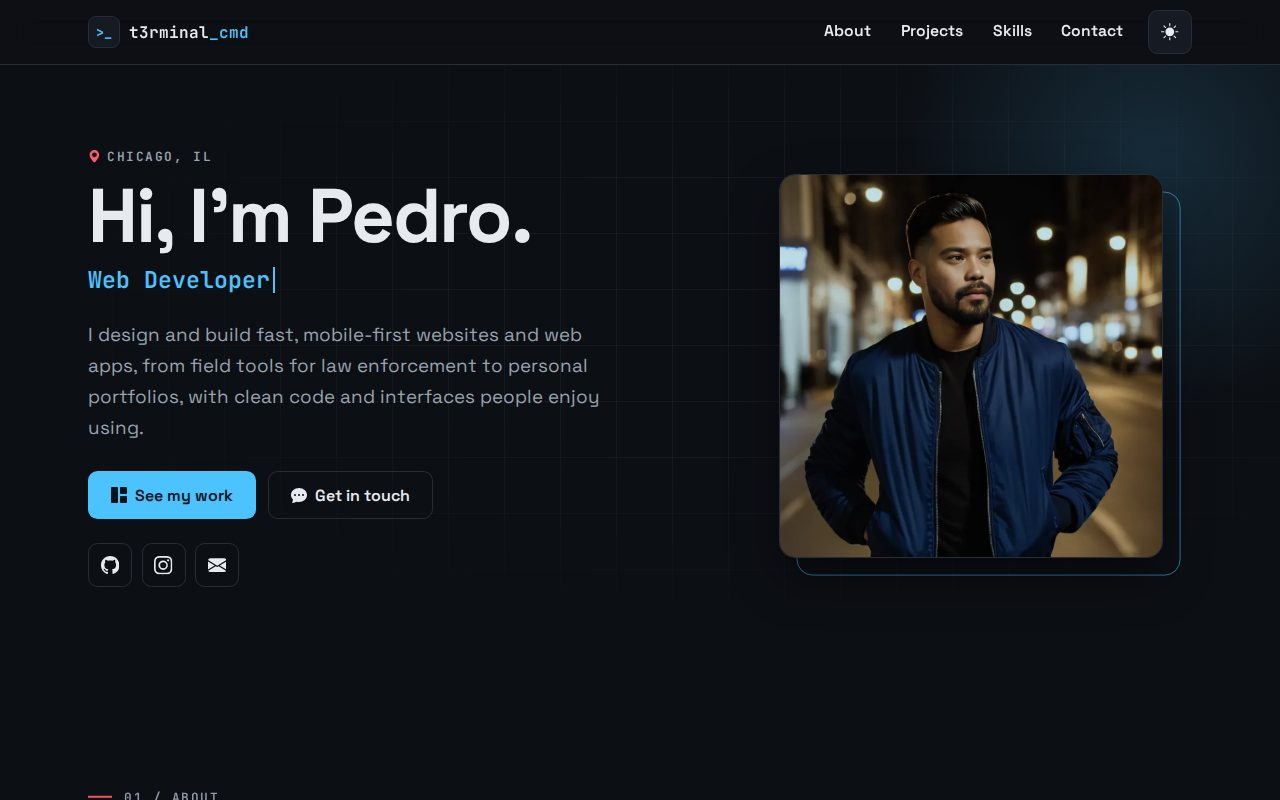
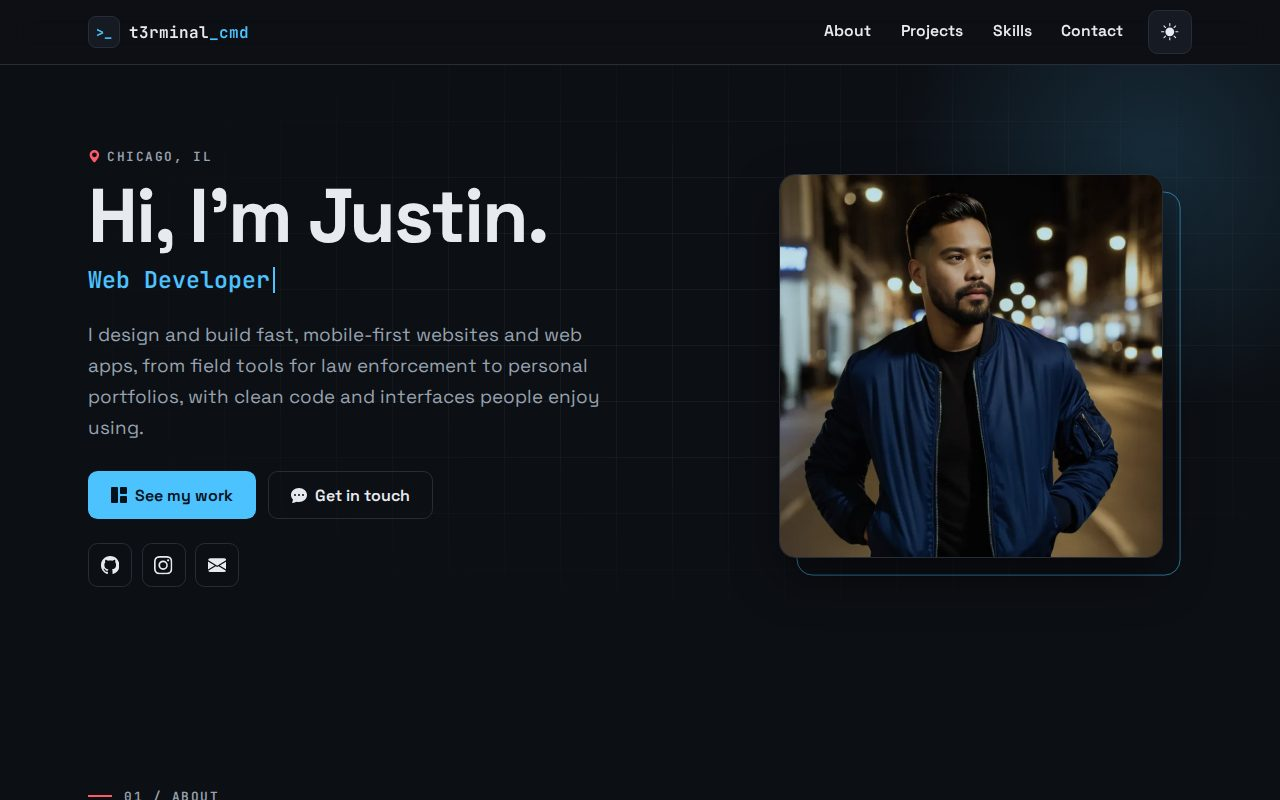
Change the name on the portfolio to Justin
Update the page title, description, social preview title, hero heading,
terminal prompt and README. The hero photo's alt text is now a neutral
description until the photo itself is replaced.

Claude-Session: https://claude.ai/code/session_01WczYLbDvrap2tUhs166EUz

Changed region(s): [[0.2188, 0.2188, 0.4375, 0.3125]]

diff --git a/index.html b/index.html
@@ -4,11 +4,11 @@
 <head>
   <meta charset="UTF-8">
   <meta name="viewport" content="width=device-width, initial-scale=1">
-  <title>Pedro | Web Developer &amp; Designer</title>
-  <meta name="description" content="Pedro, a Chicago web developer and designer building fast, mobile-first websites and web apps.">
+  <title>Justin | Web Developer &amp; Designer</title>
+  <meta name="description" content="Justin, a Chicago web developer and designer building fast, mobile-first websites and web apps.">
   <meta name="theme-color" content="#0c0f14">
   <!-- SOCIAL PREVIEW -->
-  <meta property="og:title" content="Pedro | Web Developer & Designer">
+  <meta property="og:title" content="Justin | Web Developer & Designer">
   <meta property="og:description" content="Fast, mobile-first websites and web apps from Chicago.">
   <meta property="og:image" content="https://t3rminal-cmd.github.io/Portfolio-Bootstrap/assets/img/hero.webp">
   <meta property="og:url" content="https://t3rminal-cmd.github.io/Portfolio-Bootstrap/">
@@ -89,7 +89,7 @@
       <div class="container hero-grid">
         <div class="hero-copy">
           <p class="eyebrow"><svg class="i" aria-hidden="true"><use href="#i-geo-alt-fill"/></svg>Chicago, IL</p>
-          <h1 class="hero-title">Hi, I'm Pedro.</h1>
+          <h1 class="hero-title">Hi, I'm Justin.</h1>
           <p class="hero-role">
             <span class="visually-hidden">Web developer, designer, photographer, runner, snowboarder and foodie.</span>
             <span aria-hidden="true"><span id="typing-animation">Web Developer</span><span class="caret"></span></span>
@@ -114,7 +114,7 @@
         </div>
 
         <figure class="hero-photo">
-          <img src="assets/img/hero.webp" width="720" height="720" alt="Pedro standing on a city street at night">
+          <img src="assets/img/hero.webp" width="720" height="720" alt="Portrait on a city street at night">
         </figure>
       </div>
     </section>
@@ -245,7 +245,7 @@
         <div class="terminal">
           <div class="terminal-bar" aria-hidden="true">
             <span></span><span></span><span></span>
-            <p>pedro@chicago: ~/skills</p>
+            <p>justin@chicago: ~/skills</p>
           </div>
           <div class="terminal-body">
             <div class="skill-row">

diff --git a/README.md b/README.md
@@ -1,4 +1,4 @@
-# Pedro | Web Developer & Designer
+# Justin | Web Developer & Designer
 
 My personal portfolio: a single, fast, mobile-first page with my projects, what I do, the tools I use, and a contact form. The design is urban and professional: charcoal and concrete tones, a city-grid backdrop, and a Chicago-flag blue accent with a touch of red.
 
